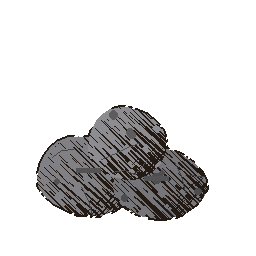
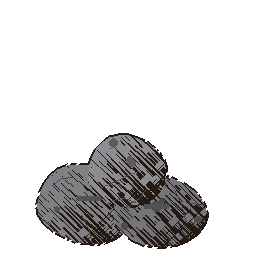
Switch all sprites to `FixedY` billboarding for accurate ground alignment and update logic to reflect new constraints
- Replace full/spherical billboarding with `FixedY` mode to ensure proper ground contact, especially with oblique camera angles.
- Adjust raycasting, collision handling, and hover logic in `SpritePixelHit` to align with the `FixedY` billboard plane basis.
- Update `generate_sprites.py` to normalize ground-contact points of generated sprites, avoiding floating artifacts.
- Clamp camera tilt to avoid edge-on rendering issues caused by `FixedY` billboard limitations.
- Refactor `GroundShadow`, `BillboardSprite`, and `PersonView` to account for the new billboarding behavior and remove unsupported offsets.
- Regenerate sprite assets to ensure alignment with the revised ground level and billboarding constraints.

Changed region(s): [[0.125, 0.4062, 0.8125, 0.9688]]

diff --git a/art/generate_sprites.py b/art/generate_sprites.py
@@ -25,6 +25,15 @@ from PIL import Image, ImageDraw
 SCALE = 4
 S = 64 * SCALE  # canvas size; shape coordinates below are still authored on the old 64-unit grid
 
+# Where every ground-standing shape's lowest point (trunk, stem, base ellipse...) should sit -
+# close to the canvas's own bottom edge (64), not comfortably above it. The engine positions
+# each sprite's shadow at the sprite's nominal canvas-bottom = true ground level (see
+# TerrainRenderer.ScatterDecoration's own comment on why it doesn't try to compensate for a
+# margin here instead - that needs the sprite's own *billboard-local* Y, which doesn't equal a
+# real world-space Y from an oblique camera). A base authored well above the canvas edge (the
+# original 58 many of these used) reads as the object floating above its own shadow instead.
+GROUND_CONTACT_Y = 63
+
 
 # ---------------------------------------------------------------- colour utils
 
@@ -670,14 +679,14 @@ def storage_hut():
     wall_h_jitter = rng.uniform(-1.0, 1.0)
     wall_pts = [
         (12, 30), (52, 30),
-        (52 + rng.uniform(-1, 1), 58 + wall_h_jitter),
-        (12 + rng.uniform(-1, 1), 58 - wall_h_jitter),
+        (52 + rng.uniform(-1, 1), GROUND_CONTACT_Y + wall_h_jitter),
+        (12 + rng.uniform(-1, 1), GROUND_CONTACT_Y - wall_h_jitter),
     ]
     walls = poly(jagged_poly(wall_pts, rng, amp=0.9, segments_per_edge=4, smooth_passes=1))
     c.fill(walls, wall)
     for x in (20, 28, 36, 44):
         seam_x = x + rng.uniform(-0.6, 0.6)
-        c.flat(rect(seam_x, 31, seam_x + 0.6, 57) & walls, darken(wall, 0.28))
+        c.flat(rect(seam_x, 31, seam_x + 0.6, GROUND_CONTACT_Y - 1) & walls, darken(wall, 0.28))
 
     roof_apex = (32 + rng.uniform(-1.5, 1.5), 6 + rng.uniform(-1, 1))
     roof_pts = [roof_apex, (58, 32), (6, 32)]
@@ -689,7 +698,7 @@ def storage_hut():
     roof_mask = erode(dilate(roof_body | fringe, close_r), close_r)
     c.fill(roof_mask, roof)
 
-    door = poly(jagged_poly([(26, 40), (38, 40), (37, 58), (27, 58)], rng, amp=0.5, segments_per_edge=3))
+    door = poly(jagged_poly([(26, 40), (38, 40), (37, GROUND_CONTACT_Y), (27, GROUND_CONTACT_Y)], rng, amp=0.5, segments_per_edge=3))
     c.fill(door, DOOR)
     c.flat(ellipse(35, 49, 0.6, 0.6), rgb(0.85, 0.78, 0.5))
 
@@ -775,8 +784,8 @@ def conifer_tree():
     trunk = jagged_poly([
         (trunk_top - trunk_w, trunk_top_y),
         (trunk_top + trunk_w, trunk_top_y),
-        (trunk_top + trunk_w + trunk_lean, 58),
-        (trunk_top - trunk_w + trunk_lean, 58),
+        (trunk_top + trunk_w + trunk_lean, GROUND_CONTACT_Y),
+        (trunk_top - trunk_w + trunk_lean, GROUND_CONTACT_Y),
     ], rng, amp=0.8, segments_per_edge=3, smooth_passes=1)
     c.fill(poly(trunk), trunk_base)
 
@@ -882,14 +891,14 @@ def rock_pile():
     c = Canvas(seed)
     stone = rgb(0.5, 0.5, 0.52)
     stones = [
-        (22, 44, 14, 11, stone, 0),
-        (40, 46, 13, 10, darken(stone, 0.08), 1),
-        (32, 36, 11, 10, lighten(stone, 0.1), 2),
+        (22, 51, 14, 11, stone, 0),
+        (40, 53, 13, 10, darken(stone, 0.08), 1),
+        (32, 43, 11, 10, lighten(stone, 0.1), 2),
     ]
     for cx, cy, rx, ry, color, i in stones:
         _stone(c, cx, cy, rx, ry, color, seed + i * 9, rng)
-    c.flat(rect(19, 42, 25, 43), darken(stone, 0.35))
-    c.flat(rect(36, 44, 42, 45), darken(stone, 0.35))
+    c.flat(rect(19, 49, 25, 50), darken(stone, 0.35))
+    c.flat(rect(36, 51, 42, 52), darken(stone, 0.35))
     c.rough_outline(width=max(1, SCALE // 2))
     return c
 
@@ -900,8 +909,8 @@ def rock_boulder():
     rng = random.Random(seed)
     c = Canvas(seed)
     stone = rgb(0.48, 0.48, 0.51)
-    _stone(c, 32, 42, 21, 17, stone, seed, rng)
-    c.flat(rect(13, 51, 51, 53), darken(stone, 0.35))
+    _stone(c, 32, 46, 21, 17, stone, seed, rng)
+    c.flat(rect(13, 55, 51, 57), darken(stone, 0.35))
     c.rough_outline(width=max(1, SCALE // 2))
     return c
 
@@ -914,15 +923,15 @@ def rock_cluster():
     c = Canvas(seed)
     stone = rgb(0.52, 0.52, 0.55)
     stones = [
-        (15, 46, 7, 6, stone, 0),
-        (27, 50, 6, 5, darken(stone, 0.06), 1),
-        (40, 47, 8, 6, lighten(stone, 0.08), 2),
-        (50, 43, 6, 5, darken(stone, 0.1), 3),
-        (34, 39, 6, 5, stone, 4),
+        (15, 54, 7, 6, stone, 0),
+        (27, 58, 6, 5, darken(stone, 0.06), 1),
+        (40, 55, 8, 6, lighten(stone, 0.08), 2),
+        (50, 51, 6, 5, darken(stone, 0.1), 3),
+        (34, 47, 6, 5, stone, 4),
     ]
     for cx, cy, rx, ry, color, i in stones:
         _stone(c, cx, cy, rx, ry, color, seed + i * 9, rng)
-    c.flat(rect(11, 50, 55, 51), darken(stone, 0.3))
+    c.flat(rect(11, 58, 55, 59), darken(stone, 0.3))
     c.rough_outline(width=max(1, SCALE // 2))
     return c
 
@@ -945,7 +954,7 @@ def _fruit_tree_bare(name):
     c = Canvas(seed)
     trunk = rgb(0.34, 0.24, 0.15)
     foliage = rgb(0.30, 0.38, 0.22)
-    c.fill(rect(29, 44, 35, 58), trunk)
+    c.fill(rect(29, 44, 35, GROUND_CONTACT_Y), trunk)
     c.fill(_fruit_tree_canopy(), foliage)
     c.rough_outline(width=max(1, SCALE // 2))
     return c
@@ -996,8 +1005,8 @@ def bush():
     seed = seed_for("bush")
     c = Canvas(seed)
     foliage = rgb(0.26, 0.36, 0.18)
-    mask = (ellipse(32, 42, 20, 14) | ellipse(15, 46, 12, 10)
-            | ellipse(49, 46, 12, 10) | ellipse(32, 33, 15, 12))
+    mask = (ellipse(32, 49, 20, 14) | ellipse(15, 53, 12, 10)
+            | ellipse(49, 53, 12, 10) | ellipse(32, 40, 15, 12))
     c.fill(mask, foliage)
     c.rough_outline(width=max(1, SCALE // 2))
     return c
@@ -1015,7 +1024,7 @@ def grass():
         height = rng.uniform(16, 30)
         lean = rng.uniform(-5.0, 5.0)
         blade = jagged_poly(
-            [(bx - 2.2, 58), (bx + lean, 58 - height), (bx + 2.2, 58)],
+            [(bx - 2.2, GROUND_CONTACT_Y), (bx + lean, GROUND_CONTACT_Y - height), (bx + 2.2, GROUND_CONTACT_Y)],
             rng, amp=0.5, segments_per_edge=2, smooth_passes=1)
         c.fill(poly(blade), green)
     c.rough_outline(width=1)
@@ -1030,11 +1039,11 @@ def tree_stump():
     c = Canvas(seed)
     bark = rgb(0.36, 0.24, 0.14)
     core = rgb(0.68, 0.52, 0.32)
-    root_l = jagged_poly([(14, 58), (24, 46), (28, 58)], rng, amp=0.6, segments_per_edge=3, smooth_passes=1)
-    root_r = jagged_poly([(50, 58), (40, 46), (36, 58)], rng, amp=0.6, segments_per_edge=3, smooth_passes=1)
+    root_l = jagged_poly([(14, GROUND_CONTACT_Y), (24, 51), (28, GROUND_CONTACT_Y)], rng, amp=0.6, segments_per_edge=3, smooth_passes=1)
+    root_r = jagged_poly([(50, GROUND_CONTACT_Y), (40, 51), (36, GROUND_CONTACT_Y)], rng, amp=0.6, segments_per_edge=3, smooth_passes=1)
     c.fill(poly(root_l) | poly(root_r), darken(bark, 0.1))
-    _wood_log(c, 32, 42, 17, 15, bark, core, seed)
-    _ground_shadow_dashes(c, 32, 57, 16, seed + 99)
+    _wood_log(c, 32, 47, 17, 15, bark, core, seed)
+    _ground_shadow_dashes(c, 32, GROUND_CONTACT_Y, 16, seed + 99)
     c.rough_outline(width=max(1, SCALE // 2))
     return c
 
@@ -1048,13 +1057,13 @@ def fallen_log():
     bark = rgb(0.38, 0.26, 0.15)
     core = rgb(0.70, 0.53, 0.33)
     body = poly(jagged_poly(
-        [(14, 44), (50, 38), (52, 50), (16, 56)], rng, amp=0.8, segments_per_edge=4, smooth_passes=1))
+        [(14, 51), (50, 45), (52, 57), (16, GROUND_CONTACT_Y)], rng, amp=0.8, segments_per_edge=4, smooth_passes=1))
     c.fill(body, bark)
     for x in (22, 30, 38):
         seam_x = x + rng.uniform(-1, 1)
-        c.flat(rect(seam_x, 40, seam_x + 0.8, 54) & body, darken(bark, 0.22))
-    _wood_log(c, 14, 45, 9, 11, bark, core, seed + 1)
-    _ground_shadow_dashes(c, 34, 57, 20, seed + 99)
+        c.flat(rect(seam_x, 47, seam_x + 0.8, 61) & body, darken(bark, 0.22))
+    _wood_log(c, 14, 52, 9, 11, bark, core, seed + 1)
+    _ground_shadow_dashes(c, 34, GROUND_CONTACT_Y, 20, seed + 99)
     c.rough_outline(width=max(1, SCALE // 2))
     return c
 
@@ -1066,7 +1075,7 @@ def fern():
     rng = random.Random(seed)
     c = Canvas(seed)
     green = rgb(0.28, 0.40, 0.20)
-    base_x, base_y = 32, 56
+    base_x, base_y = 32, GROUND_CONTACT_Y
     n_fronds = 7
     for i in range(n_fronds):
         t = i / (n_fronds - 1)
@@ -1093,7 +1102,7 @@ def flower():
     stem = rgb(0.30, 0.40, 0.20)
     petal = rgb(0.82, 0.52, 0.62)
     center = rgb(0.90, 0.75, 0.25)
-    c.fill(rect(31, 38, 33, 58), stem)
+    c.fill(rect(31, 38, 33, GROUND_CONTACT_Y), stem)
     petals = (ellipse(32, 28, 6, 9) | ellipse(23, 33, 8, 6) | ellipse(41, 33, 8, 6)
               | ellipse(27, 24, 7, 7) | ellipse(37, 24, 7, 7))
     c.fill(petals, petal)

diff --git a/src/ManyWinters.Godot/SpritePixelHit.cs b/src/ManyWinters.Godot/SpritePixelHit.cs
@@ -10,9 +10,16 @@ namespace ManyWinters.Godot;
 // Sprite3D's Billboard rendering is a shader-only trick - it never rotates the node's own
 // Transform, so the invisible CollisionShape3D used for the initial broad-phase hit doesn't
 // itself turn to face the camera the way the visible sprite does. This instead reconstructs
-// where the pick ray crosses the sprite's actual (camera-facing) plane, using the camera's
-// own basis vectors as that plane's real screen-facing right/up - which is what "Enabled"
-// (full/spherical) billboard mode means by definition, not an approximation of it.
+// where the pick ray crosses the sprite's actual rendered plane.
+//
+// Every sprite uses FixedY billboarding (see BillboardSprite.cs), not full/spherical - it
+// only ever yaws to face the camera's *horizontal* direction, keeping local up pinned to
+// world up regardless of camera pitch (that's what keeps a sprite's own base sitting at its
+// real world-space height instead of floating - see BillboardSprite's own doc comment). The
+// rendered plane's basis has to match that: up is always world up, and right/forward are
+// derived from the horizontal component of the direction to the camera, not the camera's own
+// (pitched) basis vectors - those would describe a full/spherical billboard's plane instead,
+// which tilts to match camera elevation and this game's sprites never do.
 public static class SpritePixelHit
 {
     private static readonly Dictionary<string, Image> _imageCache = new();
@@ -45,10 +52,25 @@ public static class SpritePixelHit
     {
         uv = default;
 
-        var basis = camera.GlobalTransform.Basis;
-        var right = basis.X;
-        var up = basis.Y;
-        var forward = -basis.Z;
+        var up = Vector3.Up;
+        var toCameraHorizontal = new Vector3(
+            camera.GlobalPosition.X - spriteCenter.X,
+            0f,
+            camera.GlobalPosition.Z - spriteCenter.Z);
+        var horizontalDistance = toCameraHorizontal.Length();
+        if (horizontalDistance < 0.0001f)
+        {
+            // Camera directly overhead (or underneath) the sprite - a FixedY billboard has
+            // nothing left to yaw toward and renders edge-on/degenerate here. FreeCameraRig's
+            // own tilt clamp keeps normal play well clear of this.
+            return false;
+        }
+
+        // The direction the billboard's plane faces (from the sprite toward the camera,
+        // horizontally) - matches camera.GlobalTransform.Basis.X exactly whenever the camera
+        // has zero pitch, and stays correct at any pitch since only yaw affects it.
+        var look = toCameraHorizontal / horizontalDistance;
+        var right = up.Cross(look);
 
         var rayOrigin = camera.GlobalPosition;
         var toHit = rayHitPosition - rayOrigin;
@@ -59,13 +81,13 @@ public static class SpritePixelHit
         }
 
         var rayDirection = toHit / rayLength;
-        var denominator = rayDirection.Dot(forward);
+        var denominator = rayDirection.Dot(look);
         if (Mathf.Abs(denominator) < 0.0001f)
         {
             return false;
         }
 
-        var t = (spriteCenter - rayOrigin).Dot(forward) / denominator;
+        var t = (spriteCenter - rayOrigin).Dot(look) / denominator;
         var pointOnBillboardPlane = rayOrigin + (rayDirection * t);
         var offset = pointOnBillboardPlane - spriteCenter;
         var localRight = offset.Dot(right);

diff --git a/src/ManyWinters.Godot/GroundShadow.cs b/src/ManyWinters.Godot/GroundShadow.cs
@@ -13,13 +13,17 @@ public static class GroundShadow
     // with the ground mesh.
     public const float GroundOffset = 0.02f;
 
-    // A shadow centered directly under its caster reads as floating, not grounded - there's
-    // no visual separation between "the object's own base" and "its shadow." Offsetting it
-    // to one side (as if from a consistent, fixed light direction) fixes that. Callers add
-    // their own ground-height (and, for world-space callers, XZ) position on top of this via
-    // Position +=, so this offset survives rather than being overwritten.
-    private const float SideOffsetFraction = 0.35f;
-
+    // No side offset - a shadow centered directly under its caster was tried with one (as if
+    // from a consistent, fixed light direction) to avoid reading as floating, but that offset
+    // is fixed in *world* space while the caster itself is a billboard that only ever rotates
+    // to face the camera (its actual Transform never turns - see SpritePixelHit's own doc
+    // comment on that). Orbiting the camera around a fixed-world-space-offset shadow next to
+    // an always-camera-facing sprite made the shadow appear to swing around the object as the
+    // view angle changed - worse than the plain-floating look it was meant to fix. A per-frame
+    // camera-relative offset (recomputed like the selection marker overlay was) would fix that
+    // properly, but doing it for potentially tens of thousands of decoration shadows every
+    // frame is exactly the per-frame-cost mistake the density/performance pass just walked
+    // back - not worth it for a purely cosmetic offset.
     public static Sprite3D Create(float diameter)
     {
         var sprite = new Sprite3D
@@ -32,8 +36,6 @@ public static class GroundShadow
             CastShadow = GeometryInstance3D.ShadowCastingSetting.Off,
         };
         sprite.PixelSize = diameter / sprite.Texture.GetWidth();
-        var sideOffset = diameter * SideOffsetFraction;
-        sprite.Position = new Vector3(sideOffset, 0f, sideOffset);
         return sprite;
     }
 }

diff --git a/src/ManyWinters.Godot/BillboardSprite.cs b/src/ManyWinters.Godot/BillboardSprite.cs
@@ -19,6 +19,15 @@ public static class BillboardSprite
     // same position - e.g. ResourceNodeView's fruit overlay - has no defined draw order
     // against it under OpaquePrepass (both are at the same depth), so it needs standard alpha
     // blending (Disabled) plus a higher renderPriority to reliably draw second/on top.
+    //
+    // FixedY, not Enabled (full/spherical): Enabled reorients local up to the *camera's* own
+    // up vector, not world up, so at this game's oblique camera tilt a sprite's own vertical
+    // extent renders shorter in true world-space than its nominal height (short by a factor of
+    // 1-cos(tilt) of its own half-height) - a trunk/base authored to reach the very bottom of
+    // its canvas still visibly floats above the ground. FixedY keeps local up pinned to world
+    // up regardless of camera pitch, so a sprite's own bottom edge always lands at its real
+    // world-space height. Used uniformly (not just for decoration) so ground contact holds the
+    // same way everywhere - see SpritePixelHit's own plane-basis math, which assumes this mode.
     public static Sprite3D Create(
         string texturePath,
         float worldHeight,
@@ -28,7 +37,7 @@ public static class BillboardSprite
     {
         var sprite = new Sprite3D
         {
-            Billboard = BaseMaterial3D.BillboardModeEnum.Enabled,
+            Billboard = BaseMaterial3D.BillboardModeEnum.FixedY,
             // LinearMipmap, not Nearest: the art is now illustrated engraving detail (fine
             // crosshatching), not deliberate hard-edged pixel art. Without a mip chain, that
             // fine detail aliases into shimmering noise once a sprite is small on screen -

diff --git a/src/ManyWinters.Godot/PersonView.cs b/src/ManyWinters.Godot/PersonView.cs
@@ -53,11 +53,13 @@ public partial class PersonView : Area3D
         groundShadow.Position += new Vector3(0, (-Height / 2f) + GroundShadow.GroundOffset, 0);
         AddChild(groundShadow);
 
-        // Keep the default full billboard (not FixedY): the camera sits at a fixed 45deg
-        // elevation, and only full billboard keeps the sprite's own face-normal genuinely
-        // aligned with the actual (elevated) camera direction. FixedY holds the sprite
-        // perfectly upright instead, so a local Z "roll" ends up misaligned with that
-        // oblique view and reads as a forward/backward tilt rather than side-to-side.
+        // BillboardSprite.Create always uses FixedY now (switched from full/spherical so a
+        // standing figure's own feet actually land at ground level at this camera's oblique
+        // tilt - see its own doc comment). That trade-off cuts both ways here specifically:
+        // the walk-cycle's local Z "roll" below (_walkPhase) was tuned assuming full billboard,
+        // where a Z roll reads as a proper side-to-side lean; under FixedY it may instead read
+        // as a forward/backward tilt. Needs a live look once the ground-contact fix is
+        // confirmed - if the walk rock looks wrong now, that's the reason.
         _sprite = BillboardSprite.Create(AliveTexturePath, Height, AliveColor);
         _normalModulate = _sprite.Modulate;
         AddChild(_sprite);

diff --git a/src/ManyWinters.Godot/FreeCameraRig.cs b/src/ManyWinters.Godot/FreeCameraRig.cs
@@ -28,10 +28,14 @@ public sealed class FreeCameraRig
 
     // Degrees of elevation above the rig's horizontal plane. 45 matches the original fixed
     // Vector3(0, 1, 1) direction; the clamp keeps the view from ever going fully overhead or
-    // fully edge-on, both of which break the billboard/cutout illusion.
+    // fully edge-on, both of which break the billboard/cutout illusion. The upper bound
+    // matters more now that every sprite uses FixedY billboarding (see BillboardSprite.cs):
+    // that mode only ever yaws to face the camera's *horizontal* direction, so looking
+    // straight down (90 deg) leaves nothing to yaw toward - every sprite would render edge-on
+    // and vanish. 70 keeps a comfortable margin below that degenerate case.
     private const float DefaultTiltDegrees = 45f;
     private const float MinTiltDegrees = 20f;
-    private const float MaxTiltDegrees = 80f;
+    private const float MaxTiltDegrees = 70f;
     private const float TiltSpeedDegreesPerSecond = 45f;
 
     private readonly Node3D _rig;

diff --git a/src/ManyWinters.Godot/Main.cs b/src/ManyWinters.Godot/Main.cs
@@ -317,7 +317,7 @@ public partial class Main : Node3D
 
         foreach (var child in FindChildren("*", nameof(Sprite3D), recursive: true, owned: false))
         {
-            if (child is not Sprite3D sprite || sprite.Billboard != BaseMaterial3D.BillboardModeEnum.Enabled)
+            if (child is not Sprite3D sprite || sprite.Billboard == BaseMaterial3D.BillboardModeEnum.Disabled)
             {
                 continue;
             }
